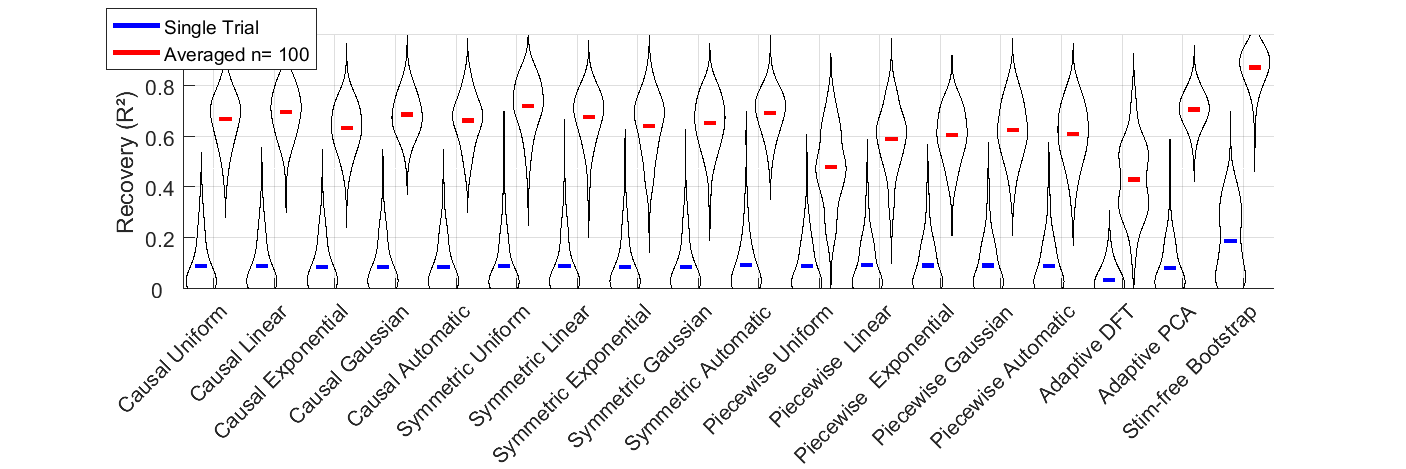
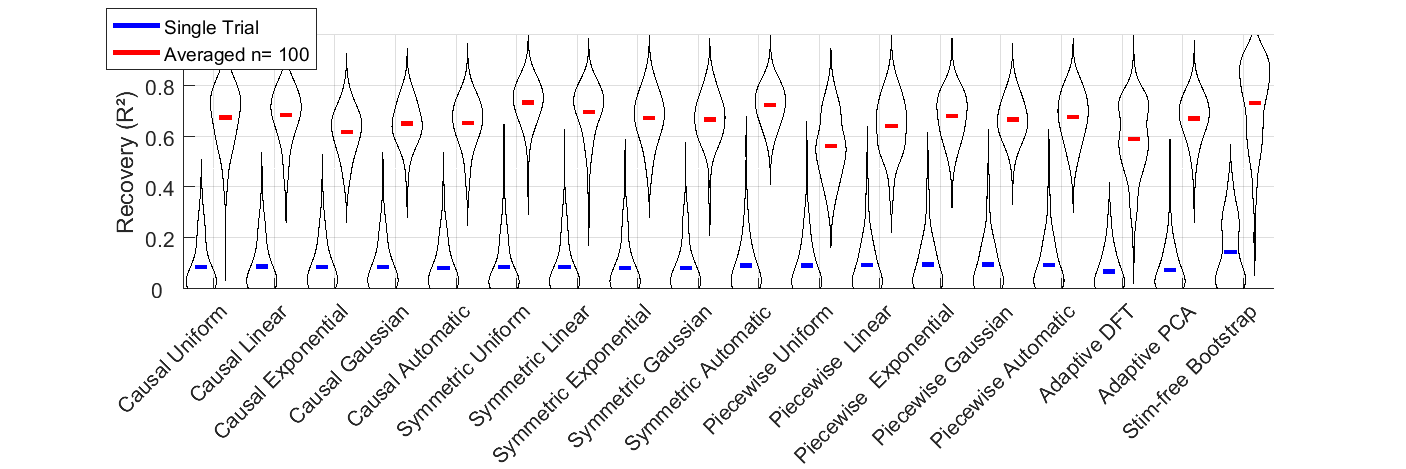
Extend dft.local for harmonics
Add new requirements to requirements.txt
Refactor ecg_script
Improve documentation

diff --git a/docs/ecg_analysis.m b/docs/ecg_analysis.m
@@ -9,8 +9,8 @@ printfolder = '.\docs\img\';
 datafolder = '.\dev\data\ecg\';
 %%
 D = dir([datafolder,'*.vhdr']);
-trange = 2000;
-
+trange = 4000;
+%% Load stim-free data
 cfg                         = [];
 cfg.trialfun                = 'ft_trialfun_general';
 cfg.dataset                 = [datafolder,'clean.vhdr'];
@@ -34,9 +34,7 @@ tru  = [];
 for hp_idx = 1 : length(HeartPeaks)  
     toi = int32(HeartPeaks(hp_idx,1));
     toi = (toi-trange):(toi+trange);
-    if min(toi)<0 || max(toi)>length(ECG), continue; end
-    
-  %  tmp = ECG(coi,toi)-mean(ECG(coi,toi));    
+    if min(toi)<0 || max(toi)>length(ECG), continue; end   
     
     % bipolar
     tmp = ECG(3,toi)-ECG(2,toi);
@@ -44,13 +42,19 @@ for hp_idx = 1 : length(HeartPeaks)
     tmp = tmp-mean(tmp);
     tru = cat(1,tru,tmp);
 end
+%% Run across the three stimulation data sets
 
+dataset_names   = {'10Hz.vhdr','10Hz3ma.vhdr','11Hz.vhdr'};
+dataset_freq    = [10,10,11];
+close all
+for dset_idx = 1 : length(dataset_names)
 %
 cfg                         = [];
 cfg.trialfun                = 'ft_trialfun_general';
-cfg.dataset                 = [datafolder,'10Hz.vhdr'];
+%cfg.dataset                 = [datafolder,'10Hz.vhdr'];
 %cfg.dataset                 = [datafolder,'10Hz3ma.vhdr'];
-cfg.dataset                 = [datafolder,'11Hz.vhdr'];
+%cfg.dataset                 = [datafolder,'11Hz.vhdr'];
+cfg.dataset                 = [datafolder,dataset_names{dset_idx}];
 cfg.trialdef.triallength    = Inf;
 cfg                         = ft_definetrial(cfg);
 data                        = ft_preprocessing(cfg);
@@ -91,13 +95,12 @@ filt_axis       = {'Causal Uniform','Causal Linear','Causal Exponential','Causal
 filt_type       = {'ave','linear','exp','gauss','automatic','ave','linear','exp','gauss','automatic','ave','linear','exp','gauss','automatic'};
 sym_type        = {'causal','causal','causal','causal','causal','symmetric','symmetric','symmetric','symmetric','symmetric','piecewise','piecewise','piecewise','piecewise','piecewise'};
 inc_type        = {'dec','dec','dec','dec','dec','inc','inc','inc','inc','inc','dec','dec','dec','dec','dec'};
-%inc_type        = {'dec','dec','dec','dec','dec','dec','dec','dec','dec','dec','dec','dec','dec','dec','dec'};
 Delay           = [0 0 0 0 0,5 5 5 5 5,0 0 0 0 0];
-%Delay           = [0 0 0 0 0,0 0 0 0 0,0 0 0 0 0];
 Latency         = trange+1;
 NumberPeriods   = 10;
 %tacsFreq        = 10;
-tacsFreq        = 11;
+%tacsFreq        = 11;
+tacsFreq        = dataset_freq(dset_idx);
 Fs              = 1000;
 
 toi             = trange-250:trange+251;
@@ -110,15 +113,17 @@ F               = [];
 H = [];
 for trl_idx = 1 : size(trl,1)
     r = trl(trl_idx,:);
-    for fidx = 1 : length(filt_type)   
-        f               = artacs.kernel.run(r,NumberPeriods,tacsFreq,Fs,sym_type{fidx},filt_type{fidx},'default',inc_type{fidx},Delay(fidx),Latency);  
-
+    for fidx = 1 : length(filt_type)         
+        f               = artacs.kernel.run(r,NumberPeriods,tacsFreq,Fs,sym_type{fidx},filt_type{fidx},'default',inc_type{fidx},Delay(fidx),Latency);          
         recover         = corr(f(toi)',e(1,toi)');     % true signal -> erp
         R(fidx,trl_idx)   = recover;   
         F(fidx,trl_idx,:) = utils.baseline(f,trange-500:trange-100,1);
+        
     end
-    
-    f                   = artacs.dft.local(r,tacsFreq,Fs,NumberPeriods);                
+    freqharm            = [1:4]*tacsFreq;
+    f                   = artacs.dft.local(r,freqharm,Fs,NumberPeriods);
+    %f                   = artacs.dft.local(r,tacsFreq,Fs,NumberPeriods);                
+          
     recover             = corr(f(toi)',e(1,toi)');    % true signal -> erp
     R(fidx+1,trl_idx)   = recover;
     F(fidx+1,trl_idx,:) = utils.baseline(f,trange-500:trange-100,1);
@@ -127,17 +132,16 @@ for trl_idx = 1 : size(trl,1)
     recover             = corr(f(toi)',e(1,toi)');    % true signal -> erp
     R(fidx+2,trl_idx)   = recover;
     F(fidx+2,trl_idx,:) = utils.baseline(f,trange-500:trange-100,1);
-    
+   
     f                   = tru(datasample(1:size(tru,1),1),:);
     recover             = corr(f(toi)',e(1,toi)');    % true signal -> erp
     R(fidx+3,trl_idx)   = recover;
     F(fidx+3,trl_idx,:) = utils.baseline(f,trange-500:trange-100,1);
-    fprintf(')
 end
-%%
-%Efun      = @(x,prm)median(x,prm);
-Efun      = @(x,prm)mean(x,prm);
-close all
+%
+%Efun      = @(x,prm)nanmedian(x,prm);
+Efun      = @(x,prm)nanmean(x,prm);
+
 figure
 set(gcf,'Position',[100 100 1200 1000],'paperpositionmode','auto')
 count = 0;
@@ -159,6 +163,41 @@ for fidx = 1:size(F,1)
 end
 h = legend([h1,h2],'Stim-free Comparison','Artifact Removed');
 set(h,'position',[0.7 .15 .08 .08])
+
+%
+
+figure
+set(gcf,'Position',[100 100 1200 1000],'paperpositionmode','auto')
+count = 0;
+foi = 1:0.1:45;
+foitoi = trange-1000:trange+1000;
+for fidx = 1:size(F,1)
+    count = count+1;
+    subplot(4,5,count)
+    hold on
+               
+    pxx = pwelch(Efun(squeeze(F(end,:,foitoi)),1),1000,500,foi,1000);
+    h1 = plot(foi,20*log10(pxx),'linewidth',1,'color',[0.8500 0.3250 0.0980]);
+    if fidx ~= 18                
+        pxx = pwelch(squeeze(Efun(F(fidx,:,foitoi),2)),1000,500,foi,1000);
+        h2 = plot(foi,20*log10(pxx),'linewidth',2,'color',[0 0.4470  0.7410]);
+    end
+    set(gca,'ylim',[-100 0],'ytick',[-100:20:0])
+    set(gca,'xlim',[foi(1)-1,foi(end)],'xtick',[0,foi(91:100:end)])
+    title(filt_axis{fidx})   
+end
+h = legend([h1,h2],'Stim-free Comparison','Artifact Removed');
+set(h,'position',[0.7 .15 .08 .08])
+
+
+
+
+
+
+
+
+end
+%% Finish with 11 Hz, save some figures
 %%
 %Efun      = @(x,prm)median(x,prm);
 Efun      = @(x,prm)mean(x,prm);

diff --git a/src/+artacs/+dft/local.m b/src/+artacs/+dft/local.m
@@ -1,6 +1,27 @@
 % function filt_sig = local(sig,freq,Fs,NumberPeriods)    
-function filt_sig = local(sig,freq,Fs,NumberPeriods)    
-                 
+function filt_sig = local(sig,freq,Fs,NumberPeriods)        
+    
+    for freq_idx = 1 : length(freq)
+        if freq_idx == 1
+            filt_sig = runDFT(sig,freq(1),Fs,NumberPeriods);    
+        else
+            filt_sig = runDFT(filt_sig,freq(freq_idx),Fs,NumberPeriods);    
+        end
+    end
+end
+
+function [sig,pick] = addpad(sig,h)
+    sig     = sig(:)';    
+    L       = length(h)*4;    
+    sig     = padarray(sig,[0,L],'circular');
+    pick    = L+1:length(sig)-L;
+end
+
+function sig = rempad(sig,pick)
+    sig     = sig(pick);
+end
+
+function filt_sig = runDFT(sig,freq,Fs,NumberPeriods)    
     period          = ceil(Fs/freq);
     window          = period*NumberPeriods;        
     time            = (0:window-1)/Fs;
@@ -20,15 +41,4 @@ function filt_sig = local(sig,freq,Fs,NumberPeriods)
     filt_sig        = sig-(2.*real(ampl));
     
     filt_sig        = rempad(filt_sig,pick);
-end
-
-function [sig,pick] = addpad(sig,h)
-    sig     = sig(:)';    
-    L       = length(h)*4;    
-    sig     = padarray(sig,[0,L],'circular');
-    pick    = L+1:length(sig)-L;
-end
-
-function sig = rempad(sig,pick)
-    sig     = sig(pick);
 end

diff --git a/src/+artacs/+template/stepwise.m b/src/+artacs/+template/stepwise.m
@@ -1,3 +1,8 @@
+% PeriodResolution sets the resolution of seed periods to prevent corner artifacts in Percent.
+% Defaults to five 'randomly' selected periods
+% PeriodResolution = 'random';
+% PeriodResolution = 10 -> 10 percent steps from 1 to period length
+% PeriodResolution = 1 -> 1 percent steps from 1 to period length
 function FilteredSignal = stepwise(Signal,Freq,Fs,PeriodResolution)    
 %% up/downsample if necessary to allow integer periods
 period          = Fs/Freq;

diff --git a/readme.md b/readme.md
@@ -19,18 +19,16 @@ Filters the signal. Artifact can be _non-stationary_ and  _non-sinusoidal_, but 
 
 By default, the kernel is symmetric and weights are based empirically on the artifacts periodic autocorrelation.
 
-Piecewise filtering splits the signal in half (or at a specified latency), filters the left half forward and the right half backwards, and fuses the signal again. Comb filters can cause echos (see causal uniform filter). Piecewise filtering can help to reduce the echo of an ERP in the filtered signal if the ERP latency is known (within roughly half the artifacts period).
-
 ```matlab
 % Add package to path
 addpath('.\src\')
 
 % Run a kernel filter, with automatic weights as default
 % based on 10 neighbouring periods
-% filter a frequency of 10 Hz
+% filter a frequency of 11 Hz
 % for a signal recorded at 1000 Hz
 NumberPeriods   = 10;
-Freq            = 10;
+Freq            = 11;
 Fs              = 1000;
 filtered_signal = artacs.kernel.run(Signal,Freq,NumberPeriods,Fs)
 
@@ -39,14 +37,18 @@ filtered_signal = artacs.kernel.run(Signal,Freq,NumberPeriods,Fs)
 wfun            = 'uniform'; % wfun can be 'uniform', 'linear', 'exp', 'gauss', 'automatic'
 symflag         = 'symmetric'; % symflag  can be 'causal', 'symmetric', 'right', or 'piecewise'.
 filtered_signal = artacs.kernel.run(Signal,Freq,NumberPeriods,Fs,symflag,wfun)
-
+```
+Piecewise filtering splits the signal in half (or at a specified latency), filters the left half forward and the right half backwards, and fuses the signal again. Comb filters can cause echos (see causal uniform filter). Piecewise filtering can help to reduce the echo of an ERP in the filtered signal if the ERP latency is known (within roughly half the artifacts period).
+```matlab
+filtered_signal = artacs.kernel.run(Signal,Freq,NumberPeriods,Fs,'piecewise','gauss')
 ```
 
 
 #### Template Based (Adaptive PCA)
 Artifact can be _non-stationary_ and  _non-sinusoidal_, but is required to be _periodic_. Estimates the time-course of artifact amplitude modulation across periods, and removes its prinical components  until artifact power is suppressed below the level of neighbouring frequencies. Works only for integer frequencies.
 ```matlab
-% based on adaptive stepwise removal of prinicipal components of the artifact amplitude modulation
+% based on adaptive stepwise removal of prinicipal components
+% of the artifact amplitude modulation.
 filtered_signal = artacs.template.stepwise(Signal,Freq,Fs)
 ```
 
@@ -55,7 +57,11 @@ Artifact is assummed to be _sinusoidal_, and _periodic_, but can be _non-station
 ```matlab
 % based on adaptive local dft
 filtered_signal = artacs.dft.local(Signal,Freq,Fs,NumberPeriods)
-% based on fft/ifft using the complete trial duration
+
+% filter harmonics by using a vector for Freq
+filtered_signal = artacs.dft.local(Signal,[1:4]*Freq,Fs,NumberPeriods)
+
+% use fft/ifft on the complete trial duration
 filtered_signal = artacs.dft.complete(Signal,Freq,Fs)
 ```
 
